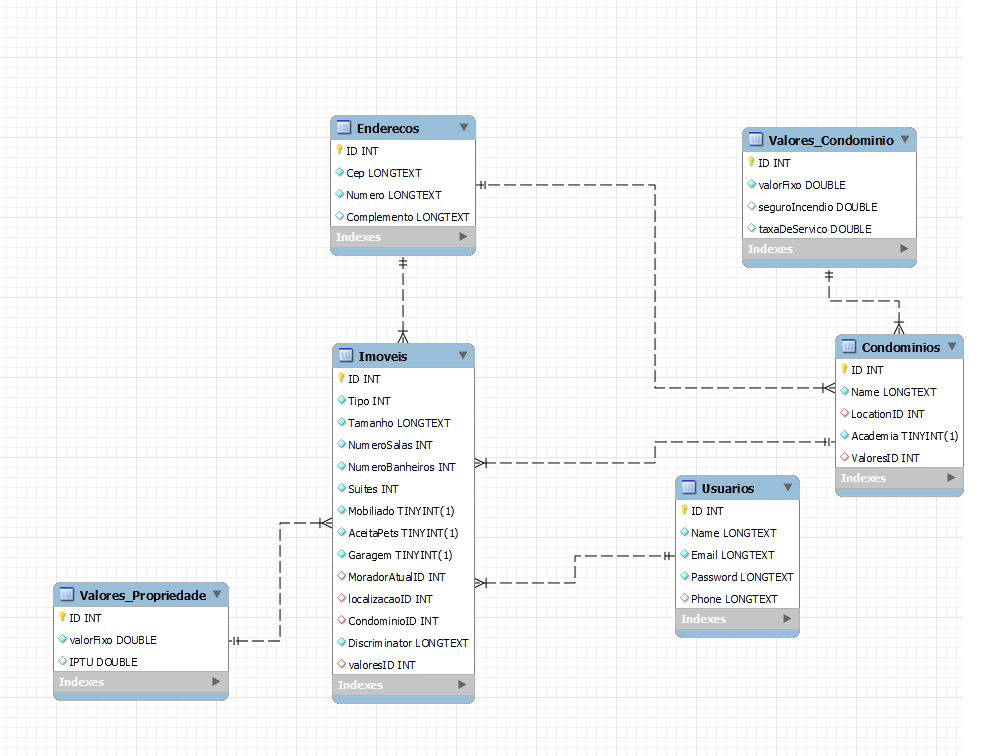
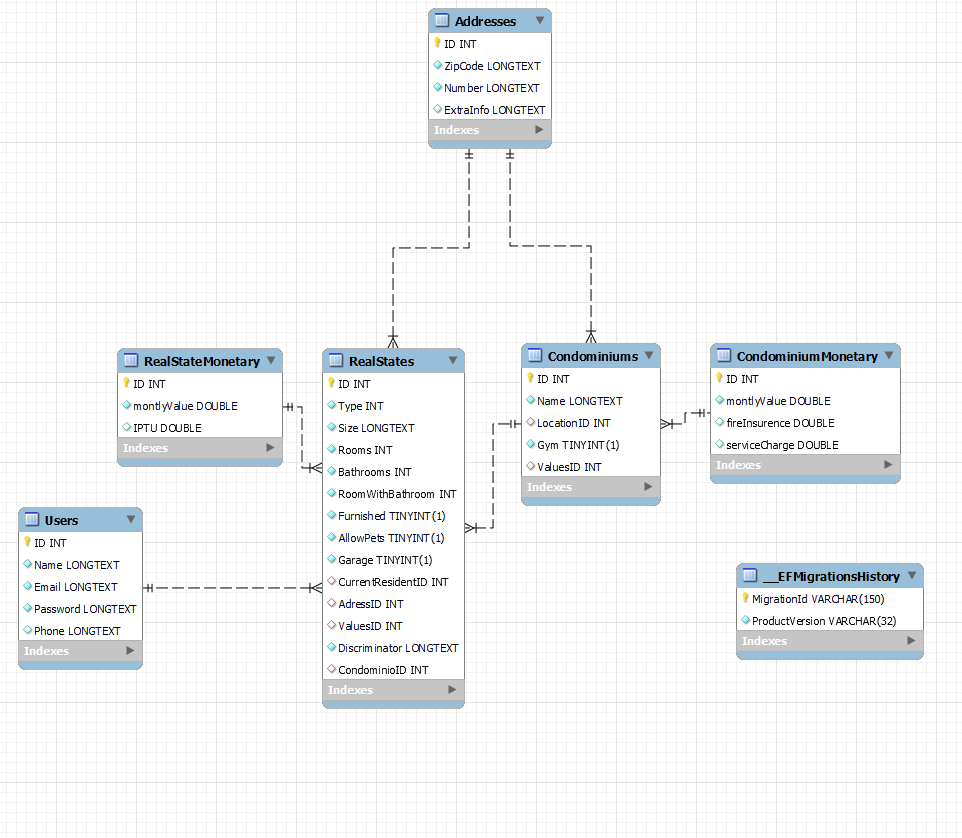
Alteracao nome das propriedades para ingles

Changed region(s): [[0.0, 0.0, 0.9979, 0.9431], [0.5301, 0.2434, 0.6237, 0.3042]]

diff --git a/API/src/Domain/RealState/Entities/RealStateObject.cs b/API/src/Domain/RealState/Entities/RealStateObject.cs
@@ -10,7 +10,7 @@ using API.src.Domain.Monetary.Entities;
 namespace API.src.Domain.RealState.Entities
 {
 
-    [Table("Imoveis")]
+    [Table("RealStates")]
     public class RealStateObject
     {
         [DatabaseGenerated(DatabaseGeneratedOption.Identity)]
@@ -19,29 +19,29 @@ namespace API.src.Domain.RealState.Entities
         public int? ID { get; set; }
 
         [Required]
-        public RealStateTypes Tipo { get; set; }
+        public RealStateTypes Type { get; set; }
         [Required]
-        public string Tamanho { get; set; }
+        public string Size { get; set; }
         [Required]
-        public int NumeroSalas { get; set; }
+        public int Rooms { get; set; }
         [Required]
-        public int NumeroBanheiros { get; set; }
-        public int Suites { get; set; }
+        public int Bathrooms { get; set; }
+        public int RoomWithBathroom { get; set; }
         [Required]
-        public bool Mobiliado { get; set; }
+        public bool Furnished { get; set; }
         [Required]
-        public bool AceitaPets { get; set; }
+        public bool AllowPets { get; set; }
         [Required]
-        public bool Garagem { get; set; }
+        public bool Garage { get; set; }
 
         [SwaggerIgnore]
-        public UserObject MoradorAtual { get; set; }
+        public UserObject CurrentResident { get; set; }
 
         [Required]
-        public Address localizacao { get; set; }
+        public Address Adress { get; set; }
 
         [Required]
-        public RealStateMonetary valores { get; set; }
+        public RealStateMonetary Values { get; set; }
 
         public RealStateObject() { }
         public RealStateObject(
@@ -59,16 +59,16 @@ namespace API.src.Domain.RealState.Entities
         {
 
             this.ID = iD;
-            this.Tipo = tipo;
-            this.Tamanho = tamanho;
-            this.NumeroSalas = numeroSalas;
-            this.NumeroBanheiros = numeroBanheiros;
-            this.Suites = suites;
-            this.Mobiliado = mobiliado;
-            this.AceitaPets = aceitaPets;
-            this.MoradorAtual = moradorAtual;
-            this.localizacao = localicazao;
-            this.valores = valores;
+            this.Type = tipo;
+            this.Size = tamanho;
+            this.Rooms = numeroSalas;
+            this.Bathrooms = numeroBanheiros;
+            this.RoomWithBathroom = suites;
+            this.Furnished = mobiliado;
+            this.AllowPets = aceitaPets;
+            this.CurrentResident = moradorAtual;
+            this.Adress = localicazao;
+            this.Values = valores;
         }
 
 
@@ -83,17 +83,17 @@ namespace API.src.Domain.RealState.Entities
             if (ID == thisObj.ID) return true;
 
             return ID == thisObj.ID &&
-                Tipo == thisObj.Tipo &&
-                Tamanho == thisObj.Tamanho &&
-                NumeroSalas == thisObj.NumeroSalas &&
-                NumeroBanheiros == thisObj.NumeroBanheiros &&
-                Suites == thisObj.Suites &&
-                Mobiliado == thisObj.Mobiliado &&
-                AceitaPets == thisObj.AceitaPets &&
-                Garagem == thisObj.Garagem &&
-                localizacao == thisObj.localizacao;
+                Type == thisObj.Type &&
+                Size == thisObj.Size &&
+                Rooms == thisObj.Rooms &&
+                Bathrooms == thisObj.Bathrooms &&
+                RoomWithBathroom == thisObj.RoomWithBathroom &&
+                Furnished == thisObj.Furnished &&
+                AllowPets == thisObj.AllowPets &&
+                Garage == thisObj.Garage &&
+                Adress == thisObj.Adress;
         }
 
-        public bool isCondoRequired() => Tipo == RealStateTypes.APARTMENT;
+        public bool isCondoRequired() => Type == RealStateTypes.APARTMENT;
     }
 }

diff --git a/API/src/Domain/Location/Address.cs b/API/src/Domain/Location/Address.cs
@@ -6,7 +6,7 @@ using System.ComponentModel.DataAnnotations.Schema;
 namespace API.Domain.Location
 {
 
-    [Table("Enderecos")]
+    [Table("Addresses")]
     public class Address
     {
 
@@ -14,9 +14,9 @@ namespace API.Domain.Location
 
         public Address(int? ID, string cep, string numero, string complemento) {
             this.ID = ID;
-            this.Cep = cep;
-            this.Numero = numero;
-            this.Complemento = complemento;
+            this.ZipCode = cep;
+            this.Number = numero;
+            this.ExtraInfo = complemento;
         }
 
         [DatabaseGenerated(DatabaseGeneratedOption.Identity)]
@@ -25,12 +25,12 @@ namespace API.Domain.Location
         public int? ID { get; set; }
 
         [Required]
-        public string Cep { get; set; }
+        public string ZipCode { get; set; }
 
         [Required]
-        public string Numero { get; set; }
+        public string Number { get; set; }
 
-        public string Complemento { get; set; }
+        public string ExtraInfo { get; set; }
 
         public override bool Equals(object obj)
         {
@@ -40,9 +40,9 @@ namespace API.Domain.Location
             var thisObj = obj as Address;
             if (this.ID == thisObj.ID) return true;
 
-            return thisObj.Cep == this.Cep &&
-                thisObj.Numero == this.Numero &&
-                thisObj.Complemento == this.Complemento;
+            return thisObj.ZipCode == this.ZipCode &&
+                thisObj.Number == this.Number &&
+                thisObj.ExtraInfo == this.ExtraInfo;
         }
 
     }

diff --git a/API/src/Domain/Monetary/Entities/CondominiumMonetary.cs b/API/src/Domain/Monetary/Entities/CondominiumMonetary.cs
@@ -6,15 +6,15 @@ using System.Text.Json.Serialization;
 
 namespace API.src.Domain.Values
 {
-    [Table("Valores_Condominio")]
+    [Table("CondominiumMonetary")]
     public class CondominiumMonetary : IMonetaryEntity
     {
 
         public CondominiumMonetary() { }
         public CondominiumMonetary(double fixValue, double? fireInsurance, double? serviceCharge) {
-            this.valorFixo = fixValue;
-            this.seguroIncendio = fireInsurance;
-            this.taxaDeServico = serviceCharge;
+            this.montlyValue = fixValue;
+            this.fireInsurence = fireInsurance;
+            this.serviceCharge = serviceCharge;
         }
 
         [DatabaseGenerated(DatabaseGeneratedOption.Identity)]
@@ -22,11 +22,11 @@ namespace API.src.Domain.Values
         [Key]
         public int? ID { get; set; }
 
-        public double valorFixo { get; set; }
+        public double montlyValue { get; set; }
 
-        public double? seguroIncendio { get; set; }
-        public double? taxaDeServico { get; set; }
+        public double? fireInsurence { get; set; }
+        public double? serviceCharge { get; set; }
 
-        public double valorTotal() => valorFixo + seguroIncendio ?? 0 + taxaDeServico ?? 0;
+        public double valorTotal() => montlyValue + fireInsurence ?? 0 + serviceCharge ?? 0;
     }
 }

diff --git a/API/src/Domain/Condominium/Entities/CondominiumObject.cs b/API/src/Domain/Condominium/Entities/CondominiumObject.cs
@@ -9,7 +9,7 @@ using System.ComponentModel.DataAnnotations.Schema;
 namespace API.Domain.RealState.Models
 {
 
-    [Table("Condominios")]
+    [Table("Condominiums")]
     public class CondominiumObject
     {
 
@@ -19,10 +19,10 @@ namespace API.Domain.RealState.Models
         {
             this.ID = iD;
             this.Location = location;
-            this.Academia = academia;
+            this.Gym = academia;
             this.realStates = realStates;
             this.Name = name;
-            this.Valores = Valores;
+            this.Values = Valores;
         }
 
         [DatabaseGenerated(DatabaseGeneratedOption.Identity)]
@@ -36,10 +36,10 @@ namespace API.Domain.RealState.Models
         [Required]
         public Address Location { get; set; }
 
-        public bool Academia { get; set; }
+        public bool Gym { get; set; }
 
         [Required]
-        public CondominiumMonetary Valores { get; set; }
+        public CondominiumMonetary Values { get; set; }
 
         [SwaggerIgnore]
         public List<RealStateWithCondo>? realStates { get; set;  }

diff --git a/API/src/Domain/RealState/Entities/RealStateWithCondo.cs b/API/src/Domain/RealState/Entities/RealStateWithCondo.cs
@@ -26,16 +26,16 @@ namespace API.src.Domain.RealState.Entities
         {
 
             this.ID = iD;
-            this.Tipo = tipo;
-            this.Tamanho = tamanho;
-            this.NumeroSalas = numeroSalas;
-            this.NumeroBanheiros = numeroBanheiros;
-            this.Suites = suites;
-            this.Mobiliado = mobiliado;
-            this.AceitaPets = aceitaPets;
-            this.MoradorAtual = moradorAtual;
-            this.localizacao = localicazao;
-            this.valores = valores;
+            this.Type = tipo;
+            this.Size = tamanho;
+            this.Rooms = numeroSalas;
+            this.Bathrooms = numeroBanheiros;
+            this.RoomWithBathroom = suites;
+            this.Furnished = mobiliado;
+            this.AllowPets = aceitaPets;
+            this.CurrentResident = moradorAtual;
+            this.Adress = localicazao;
+            this.Values = valores;
             this.Condominio = condominium;
         }
     }

diff --git a/API/src/Domain/Monetary/Entities/RealStateMonetary.cs b/API/src/Domain/Monetary/Entities/RealStateMonetary.cs
@@ -8,13 +8,13 @@ using System.Threading.Tasks;
 
 namespace API.src.Domain.Monetary.Entities
 {
-    [Table("Valores_Propriedade")]
+    [Table("RealStateMonetary")]
     public class RealStateMonetary : IMonetaryEntity
     {
         public RealStateMonetary() { }
 
         public RealStateMonetary(double valorFixo, double iptu = 0) {
-            this.valorFixo = valorFixo;
+            this.montlyValue = valorFixo;
             this.IPTU = iptu;
         }
 
@@ -24,10 +24,10 @@ namespace API.src.Domain.Monetary.Entities
         public int? ID { get; set; }
 
         [Required]
-        public double valorFixo { get ; set ; }
+        public double montlyValue { get ; set ; }
 
         public double? IPTU { get; set; }
 
-        public double valorTotal() => valorFixo + IPTU ?? 0;
+        public double valorTotal() => montlyValue + IPTU ?? 0;
     }
 }

diff --git a/API/src/Application/Condominium/CondominiumService.cs b/API/src/Application/Condominium/CondominiumService.cs
@@ -29,8 +29,8 @@ namespace API.src.Application.Condominium
             Address _newLocation = await locationService.Create(obj.Location);
             obj.Location = _newLocation ?? throw new CouldNotCreateLocationException();
 
-            var regMonetaryValues = await condoMonetaryService.Create(obj.Valores);
-            obj.Valores = regMonetaryValues ?? throw CouldNotCreateCondoValues.Default();
+            var regMonetaryValues = await condoMonetaryService.Create(obj.Values);
+            obj.Values = regMonetaryValues ?? throw CouldNotCreateCondoValues.Default();
 
             var request = await repository.Create(obj);
             return request;

diff --git a/API/src/Application/RealState/RealStateWithCondoRepository.cs b/API/src/Application/RealState/RealStateWithCondoRepository.cs
@@ -21,13 +21,13 @@ namespace API.src.Application.RealState
 
 
         public async Task<RealStateWithCondo> Get(int id) => await _context.RealStateWithCondo
-            .Include(l => l.localizacao)
+            .Include(l => l.Adress)
             .Include(l => l.Condominio)
             .FirstAsync((x) => x.ID == id);
 
 
         public async Task<List<RealStateWithCondo>> Getall() => await _context.RealStateWithCondo
-                     .Include(l => l.localizacao)
+                     .Include(l => l.Adress)
                      .Include(l => l.Condominio)
                      .ToListAsync();
 

diff --git a/API/src/Application/RealState/RealStateRepository.cs b/API/src/Application/RealState/RealStateRepository.cs
@@ -20,12 +20,12 @@ namespace API.src.Application.RealState
 
 
         public async Task<RealStateObject> Get(int id) => await _context.RealState
-              .Include(l => l.localizacao)
+              .Include(l => l.Adress)
               .FirstAsync((x) => x.ID == id);
 
 
         public async Task<List<RealStateObject>> Getall() => await _context.RealState
-                     .Include(l => l.localizacao)
+                     .Include(l => l.Adress)
                      .ToListAsync();
 
         public async Task<RealStateObject> Create(RealStateObject body)

diff --git a/API/src/Application/RealState/RealStateWithCondoService.cs b/API/src/Application/RealState/RealStateWithCondoService.cs
@@ -29,7 +29,7 @@ namespace API.src.Application.RealState
 
             body.Condominio = await condominiumService.Get((int)body.Condominio.ID) ?? throw CondoNotFoundException.Default();
 
-            body.localizacao = await locationService.Create(body.localizacao) ?? throw CouldNotCreateLocationException.Default();
+            body.Adress = await locationService.Create(body.Adress) ?? throw CouldNotCreateLocationException.Default();
 
             return await _repository.Create(body);
         }

diff --git a/API/src/Controllers/RealStateWithCondoController.cs b/API/src/Controllers/RealStateWithCondoController.cs
@@ -67,7 +67,7 @@ namespace API.src.Controllers
         [Authorize]
         public async Task<ActionResult> Create(RealStateWithCondoViewModels body)
         {
-            if (body.realState. ID != null || body.realState.localizacao.ID != null) return BadRequest("A ID é gerada automaticamente");
+            if (body.realState. ID != null || body.realState.Adress.ID != null) return BadRequest("A ID é gerada automaticamente");
 
             try
             {

diff --git a/API/src/Application/RealState/RealStateService.cs b/API/src/Application/RealState/RealStateService.cs
@@ -24,7 +24,7 @@ namespace API.Application
 
         public async Task<RealStateObject> Create(RealStateObject body)
         {
-            body.localizacao = await locationService.Create(body.localizacao) ?? throw CouldNotCreateLocationException.Default();
+            body.Adress = await locationService.Create(body.Adress) ?? throw CouldNotCreateLocationException.Default();
             return await _repository.Create(body);
         }
 
